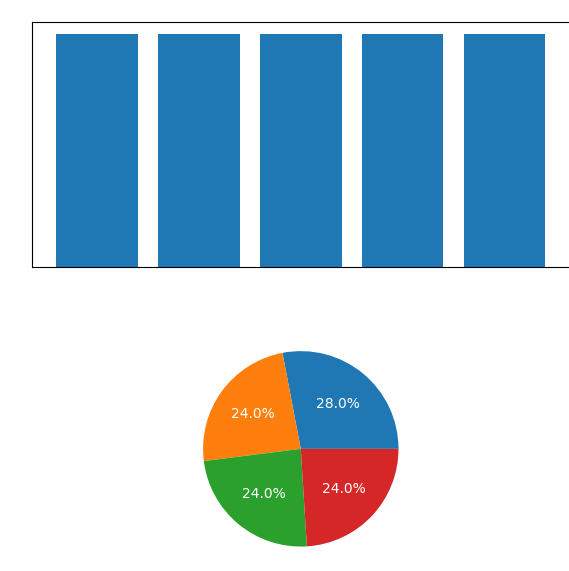
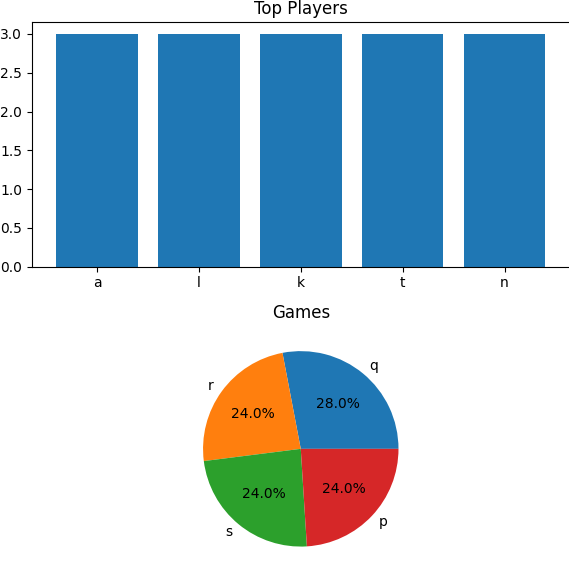
Added a hover functionality

diff --git a/hub/leaderboard.py b/hub/leaderboard.py
@@ -55,23 +55,23 @@ def graphs(wins, games):
         ax.set_facecolor((0, 0, 0, 0))
 
     axs[0].bar(players, win_counts)
-    axs[0].set_title("Top Players", color="white")
-    axs[0].tick_params(colors='white')
+    axs[0].set_title("Top Players", color="black")
+    axs[0].tick_params(colors='black')
 
     wedges, texts, autotexts = axs[1].pie(
         game_values,
         labels=game_labels,
         autopct='%1.1f%%',
-        textprops={'color': 'white'}
+        textprops={'color': 'black'}
     )
     for text in texts:
         text.set_fontsize(10)
 
     for autotext in autotexts:
         autotext.set_fontsize(10)
-        autotext.set_color('white')
+        autotext.set_color('black')
 
-    axs[1].set_title("Games", color="white")
+    axs[1].set_title("Games", color="black")
 
     plt.tight_layout()
     plt.savefig("./hub/Assets/Images/Leaderboard.png", transparent=True, bbox_inches='tight', pad_inches=0)
@@ -85,52 +85,44 @@ def main():
     pygame.init()
 
     WIDTH, HEIGHT = 800, 600
-    screen = pygame.display.set_mode((WIDTH, HEIGHT))
+    screen = pygame.display.set_mode((WIDTH, HEIGHT),pygame.RESIZABLE)
     pygame.display.set_caption("Leaderboard")
 
-    background = pygame.image.load("./hub/Assets/Images/Background.png").convert()
+    background = pygame.image.load("./hub/Assets/Images/Background.jpeg").convert()
     leaderboard = pygame.image.load("./hub/Assets/Images/Leaderboard.png").convert_alpha()
-
-    quit_btn = pygame.image.load("./hub/Assets/Images/Quit.png").convert_alpha()
-    new_btn = pygame.image.load("./hub/Assets/Images/Next.png").convert_alpha()
+    new_btn = pygame.image.load("./hub/Assets/Images/NextGlow.png").convert_alpha()
 
     background = pygame.transform.scale(background, (WIDTH, HEIGHT))
-    leaderboard = pygame.transform.smoothscale(leaderboard, (580, 380))
+    leaderboard = pygame.transform.scale(leaderboard, (580, 380))
 
-    quit_btn = pygame.transform.smoothscale(quit_btn, (110, 90))
-    new_btn = pygame.transform.smoothscale(new_btn, (110, 90))
+    new_btn = pygame.transform.scale(new_btn, (100,88))
 
     leaderboard_rect = leaderboard.get_rect(center=(WIDTH//2, HEIGHT//2 - 30))
 
-    quit_rect = quit_btn.get_rect(bottomleft=(50, HEIGHT - 20))
-    new_rect = new_btn.get_rect(bottomright=(WIDTH - 50, HEIGHT - 20))
-
-    overlay = pygame.Surface((600, 400), pygame.SRCALPHA)
-    overlay.fill((0, 0, 0, 140))
-    overlay_rect = overlay.get_rect(center=leaderboard_rect.center)
-
+    new_rect = new_btn.get_rect(topleft=(700,299))
+    col_rect = pygame.Rect(725,323,51,34)
+    
     running = True
+    screen.blit(background, (0, 0))
+    screen.blit(leaderboard, leaderboard_rect)
+    bg_btn=screen.subsurface(new_rect).copy()
     while running:
-        screen.blit(background, (0, 0))
-
-        screen.blit(overlay, overlay_rect)
-        screen.blit(leaderboard, leaderboard_rect)
-
-        screen.blit(quit_btn, quit_rect)
-        screen.blit(new_btn, new_rect)
+        
 
         for event in pygame.event.get():
             if event.type == pygame.QUIT:
                 running = False
 
             elif event.type == pygame.MOUSEBUTTONDOWN:
-                if quit_rect.collidepoint(event.pos):
-                    running = False
-
+                print(pygame.mouse.get_pos())
                 if new_rect.collidepoint(event.pos):
                     subprocess.Popen(["python", "menu.py"])
                     running = False
 
+            if col_rect.collidepoint(pygame.mouse.get_pos()):
+                screen.blit(new_btn, new_rect)
+            else:
+                screen.blit(bg_btn, new_rect)
         pygame.display.flip()
 
     pygame.quit()
